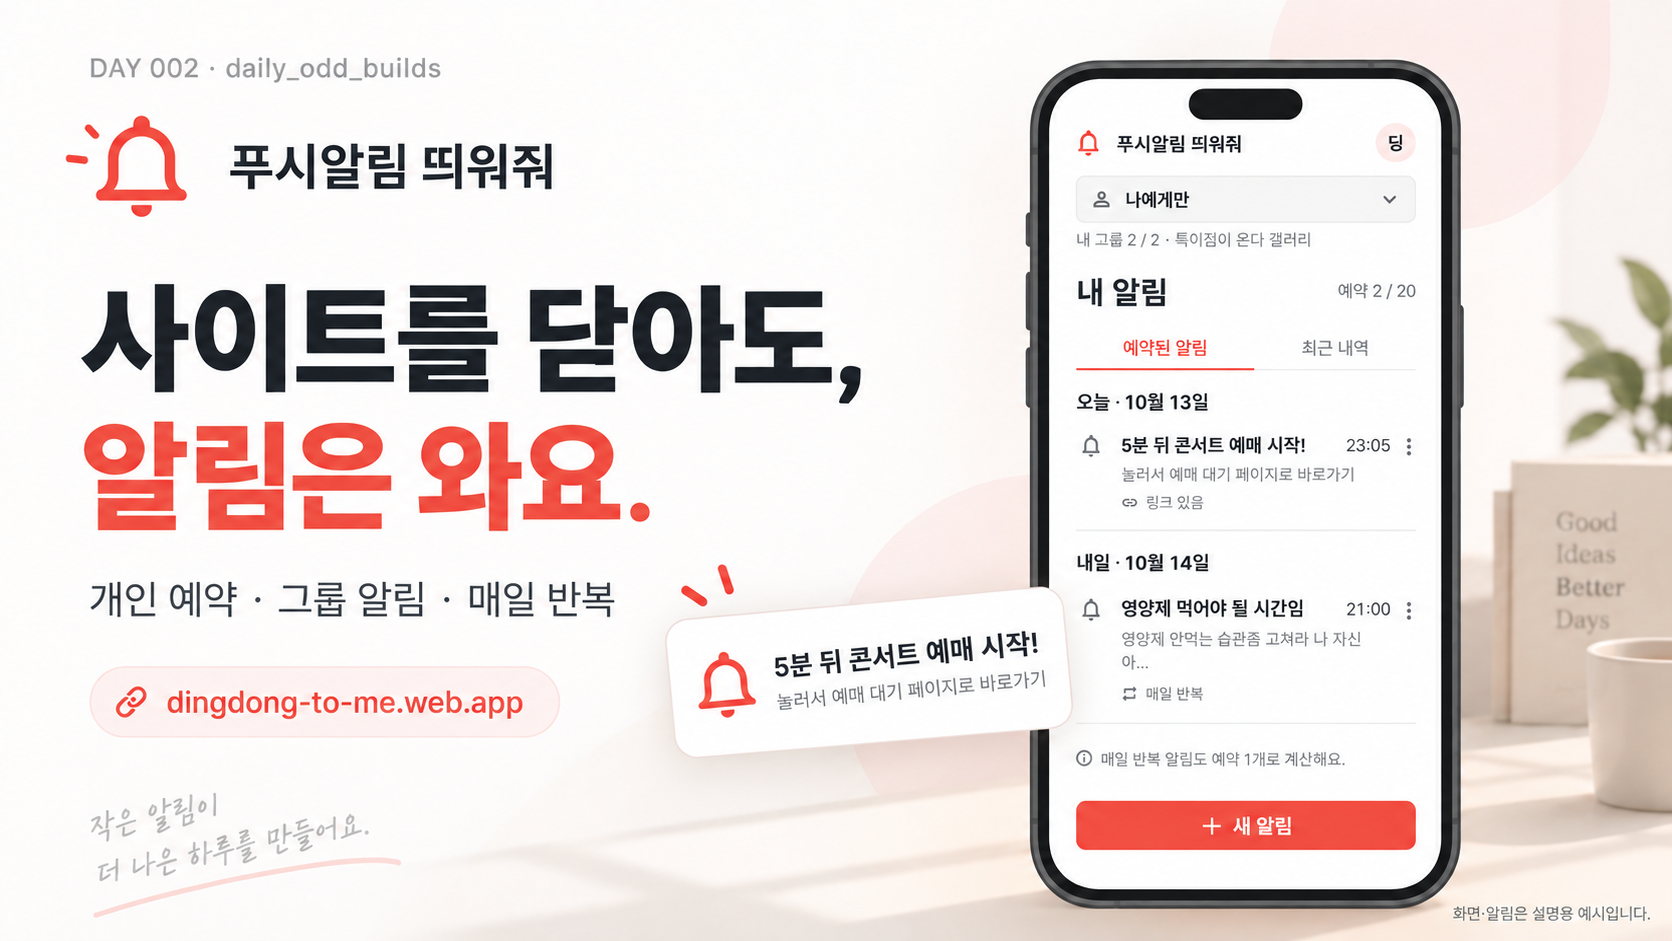
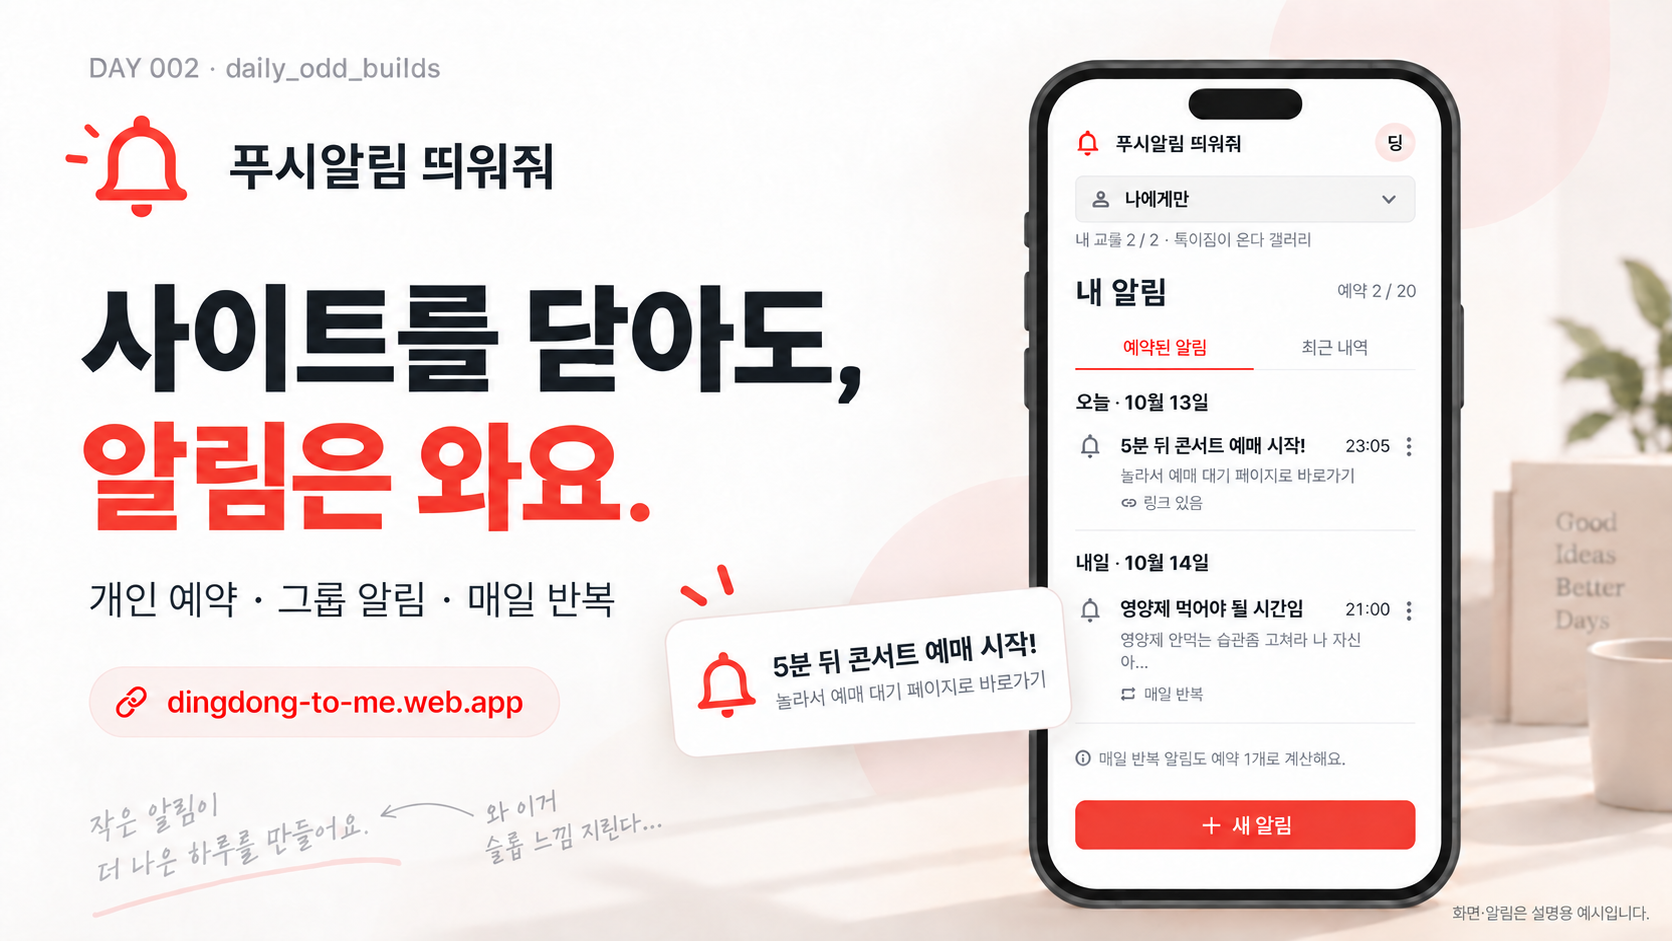
docs(day002): add a subtle handwritten reaction to the hero

diff --git a/day-002-push-me/docs/ARTWORK.md b/day-002-push-me/docs/ARTWORK.md
@@ -134,3 +134,47 @@ Small service URL: "dingdong-to-me.web.app".
 Readable footer exactly: "화면·알림은 기능 설명용 연출입니다."
 Do not show invented calendar dates, device time, OS branding, actual ticketing branding, QR codes, user credentials or source code. No guarantee of ticket purchase, queue skipping, exact-time delivery or physical iPhone receipt. This is an explanatory promotional illustration, not an actual OS notification or ticketing screenshot. All Korean must be accurately spelled and legible. Do not add other slogans or examples.
 ```
+
+## 대표 배너 손글씨 주석 — 실제 사용 프롬프트
+
+사용자가 첨부한 대표 배너에 좌측 하단 손그림 화살표와 반응을 추가한 최초 시안입니다. 이후 사용자 수정에 따라 공개 이미지의 최종 반응은 **와 이거 슬롭 느낌 지린다...**로 바꿨습니다. 내장 imagegen을 사용했으며 아래 프롬프트의 원본 크기는 편집 입력 크기입니다.
+
+```text
+Edit the attached existing Korean landscape marketing banner. Make ONLY one small annotation change in the lower-left area. Preserve the entire banner's dimensions (1672x941), layout, phone/app display, title, coral headline, service address, foreground notification, existing text, gray handwritten slogan, underline, props, colors and footer. Do not redesign, reflow, crop, recolor or rewrite anything else.
+The existing pale gray handwritten slogan at the lower left reads "작은 알림이 더 나은 하루를 만들어요." Keep it intact as the target.
+To the RIGHT of this slogan, in the empty space below the notification card and left of the phone, add exactly this Korean reaction in a natural, casual handwritten dark-charcoal pen/marker style:
+"와 이 문구"
+"슬롭냄새 지린다..."
+The line break is for fit; preserve all characters and the three dots. It should look scribbled by a person reacting to the slogan: slightly irregular baseline and varied strokes, clear and readable, not a computer/typeset font. Keep it smaller than the feature subheading but legible, approximately 35-42px handwriting at the original image size.
+Draw one thin, loosely curved HAND-DRAWN dark-charcoal arrow from beside the reaction pointing BACK LEFT to the original pale gray slogan. The arrowhead must clearly target the original "작은 알림이 더 나은 하루를 만들어요." wording, not the service address or phone. Fit the new arrow and reaction into the existing whitespace; avoid overlaps with the original slogan, URL pill, notification card, phone and footer. No speech bubble, no new icon, no other words. Everything outside this local annotation must remain as close to the source as possible.
+```
+
+## 손글씨 주석 — 최종 문구 수정 프롬프트
+
+최초 시안의 화살표와 손글씨 배치는 유지하고 아래 최종 문구를 적용했습니다. 최초 시안 이미지는 공개하지 않았습니다.
+
+```text
+Edit the attached banner with ONLY a wording change to the dark handwritten annotation near the lower left. Preserve the image dimensions (1672x941) and every other element: all banner content, phone display, title, headline, service address, notification card, pale gray original slogan, underline, and the curved hand-drawn arrow. Keep the annotation in the same position, size, dark charcoal color, natural casual handwriting, slight tilt and two-line layout.
+Replace the annotation's current first line "와 이 문구" and second line "슬롭냄새 지린다..." with EXACTLY:
+"와 이거"
+"슬롭 느낌 지린다..."
+Keep a visible space between "슬롭" and "느낌", and exactly three dots at the end. The whole phrase is "와 이거 슬롭 느낌 지린다...". Do not use "문구" or "냄새" anywhere in the annotation. Handwritten pen/marker style, not a typed font. Keep the original gray slogan "작은 알림이 더 나은 하루를 만들어요." unchanged and keep the existing curved arrow pointing at it. Do not redraw, reflow, crop, recolor or change any other part of the banner.
+```
+
+## 손글씨·화살표 크기/농도 조정 — 최종 프롬프트
+
+사용자 요청에 따라 위 문구를 유지한 채 연한 회색, 작은 손글씨, 더 짧고 가는 화살표로 조정했습니다. 공개 대표 이미지에는 이 마지막 결과를 사용합니다.
+
+```text
+Edit the attached banner ONLY within the lower-left handwritten reaction and its curved arrow. Keep the entire rest of the image exactly as it is, including dimensions 1672x941, phone/app display, all headlines, URL, notification card, original pale gray slogan and coral underline, background and footer.
+The current annotation already has the correct text. Preserve it VERBATIM, two lines:
+"와 이거"
+"슬롭 느낌 지린다..."
+Make both the annotation and its hand-drawn arrow softer and smaller:
+- Change their dark charcoal ink to a faded LIGHT GRAY around #A6A8AB, close to the tone of the original gray slogan. It should feel like a quiet pencil note, still legible.
+- Reduce the handwritten text size to approximately 75% of its current size, preserving its natural irregular handwritten strokes and slight tilt.
+- Reduce the arrow stroke weight and arrowhead size to about 75% of current.
+- Shorten the curved arrow to around 60% of its current length, with a gentle shallow curve.
+- Move the smaller annotation slightly left if needed, so it sits just beside the original slogan and the shorter arrow fits in the gap. The arrowhead still clearly points LEFT at "작은 알림이 더 나은 하루를 만들어요.", with no overlaps.
+Do not change the original slogan or its underline. Do not change the final reaction wording, spacing between "슬롭" and "느낌", or the three dots. No dark bold lettering, no bubble, no extra text. Everything outside this small annotation region remains unchanged.
+```

diff --git a/day-002-push-me/docs/README-MEDIA.md b/day-002-push-me/docs/README-MEDIA.md
@@ -4,7 +4,7 @@
 
 | 이미지 | 제작 방식 / 사실 경계 |
 | --- | --- |
-| hero.png / hero.webp | 내장 imagegen으로 실제 앱 UI 참고 홍보 배너 생성. 전화기/알림은 설명용 연출이며 실제 OS 수신 화면이 아님 |
+| hero.png / hero.webp | 내장 imagegen으로 실제 앱 UI 참고 홍보 배너 생성. 좌측 하단에 사용자가 요청한 “와 이거 슬롭 느낌 지린다...”와 짧은 화살표를 작고 연한 회색 손글씨로 추가. 전화기/알림은 설명용 연출이며 실제 OS 수신 화면이 아님 |
 | social-card.png | 내장 imagegen으로 정사각 홍보 카드 생성. 알림 카드도 설명용 연출 |
 | notification-click.png | Push를 눌러 예약에 지정한 콘서트 예매 대기 페이지를 여는 생성 연출. 실제 OS 알림이나 예매 사이트 캡처가 아님 |
 | cross-device.png | 같은 계정의 PC 예약 → 등록 휴대폰 수신을 설명하는 생성 연출. 기기마다 로그인·권한·등록이 필요함을 표기 |
